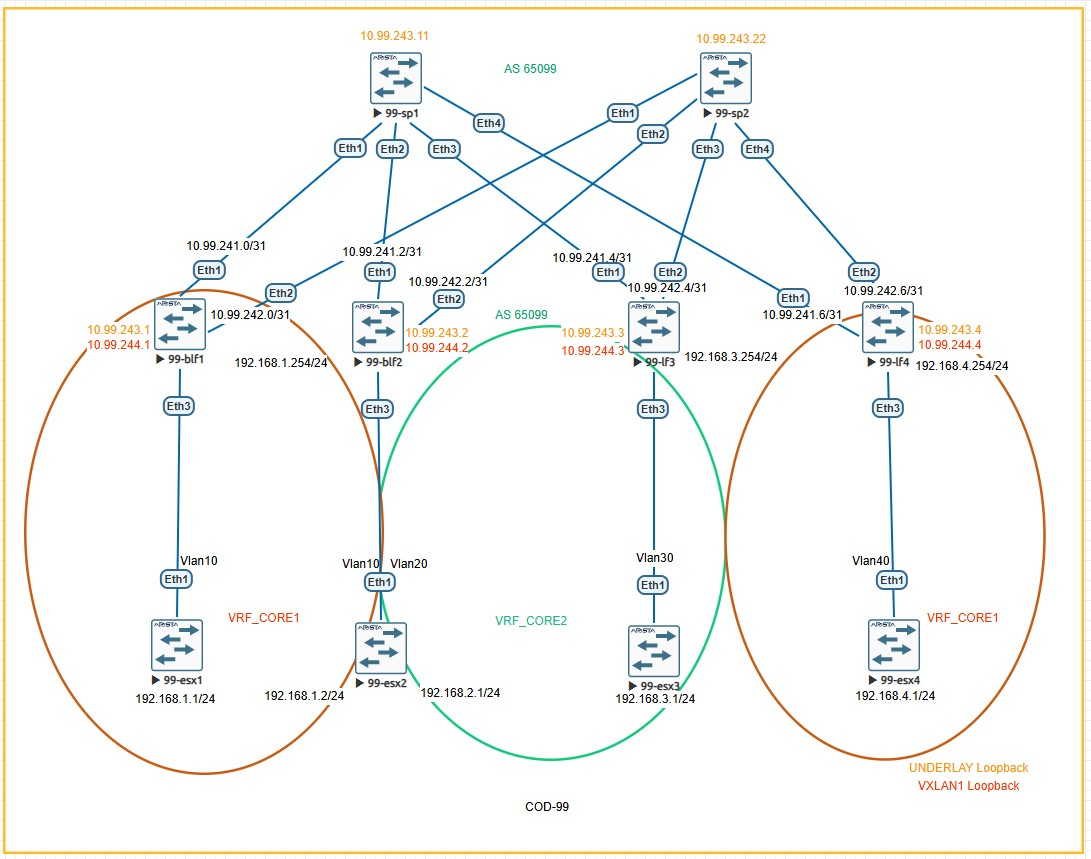
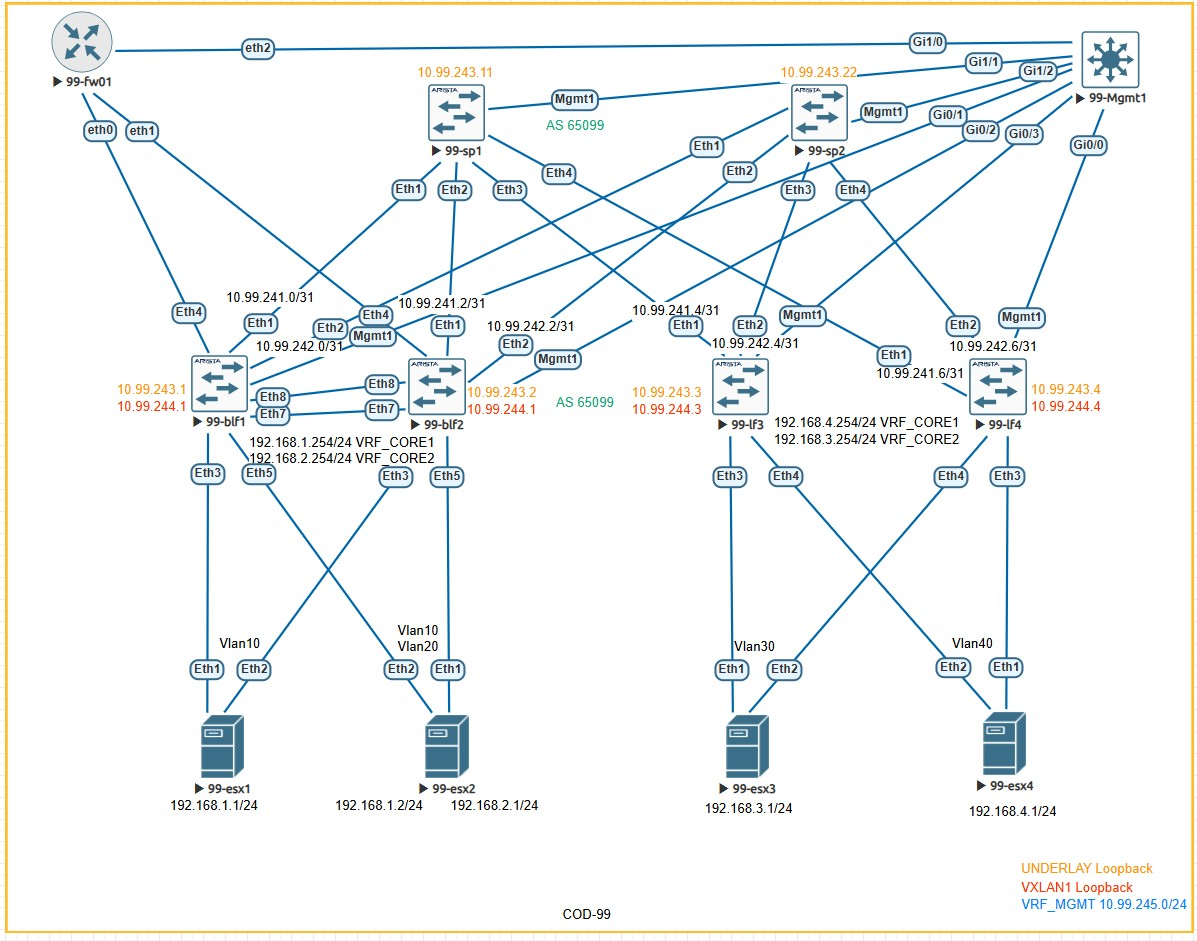
1

diff --git a/labs/lab_07(VPC_MLAG_etc)/README.md b/labs/lab_07(VPC_MLAG_etc)/README.md
@@ -490,6 +490,8 @@ ip address 10.99.245.3/24
 
 vlan 30
    name VLAN30
+vlan 40
+   name VLAN40
 
 interface Ethernet1
    description to-99-sp1-Eth3
@@ -504,17 +506,32 @@ interface Ethernet2
    ip address 10.99.242.4/31
 
 interface Ethernet3
-   description to-99-esx3-Eth1
-   switchport mode trunk
-   switchport trunk allowed vlan 30
+   description to esx3 int et 1
    mtu 9100
-   no shutdown
+   switchport trunk allowed vlan 30
+   switchport mode trunk
+   channel-group 3 mode active
+!
+interface Ethernet4
+   description to esx4 et1
+   mtu 9100
+   switchport trunk allowed vlan 40
+   switchport mode trunk
+   channel-group 4 mode active
+
 
 interface Vlan30
    description Vlan30
    mtu 9100
    vrf VRF_CORE_2
    ip address virtual 192.168.3.254/24
+
+interface Vlan40
+   description Vlan40
+   mtu 9100
+   vrf VRF_CORE_1
+   ip address virtual 192.168.4.254/24
+
 
 interface Loopback0
    description Router-ID
@@ -591,7 +608,7 @@ hostname 99-lf4
 
 ip routing
 service routing protocols model multi-agent
-ip virtual-router mac-address 0000.0000.0001
+ip virtual-router mac-address 0000.0000.0002
 
 vrf instance VRF_CORE_1
 vrf instance VRF_CORE_2
@@ -605,6 +622,9 @@ vrf instance MGMT
 interface Management 1
 vrf MGMT
 ip address 10.99.245.4/24
+
+vlan 30
+   name VLAN30
 
 vlan 40
    name VLAN40
@@ -622,11 +642,24 @@ interface Ethernet2
    ip address 10.99.242.6/31
 
 interface Ethernet3
-   description to-99-esx4-Eth1
-   switchport mode trunk
-   switchport trunk allowed vlan 40
+   description to esx3 int et2
    mtu 9100
-   no shutdown
+   switchport trunk allowed vlan 30
+   switchport mode trunk
+   channel-group 3 mode active
+!
+interface Ethernet4
+   description to esx4 int et 2
+   mtu 9100
+   switchport trunk allowed vlan 40
+   switchport mode trunk
+   channel-group 4 mode active
+
+interface Vlan30
+   description Vlan30
+   mtu 9100
+   vrf VRF_CORE_2
+   ip address virtual 192.168.3.254/24
 
 interface Vlan40
    description Vlan40
